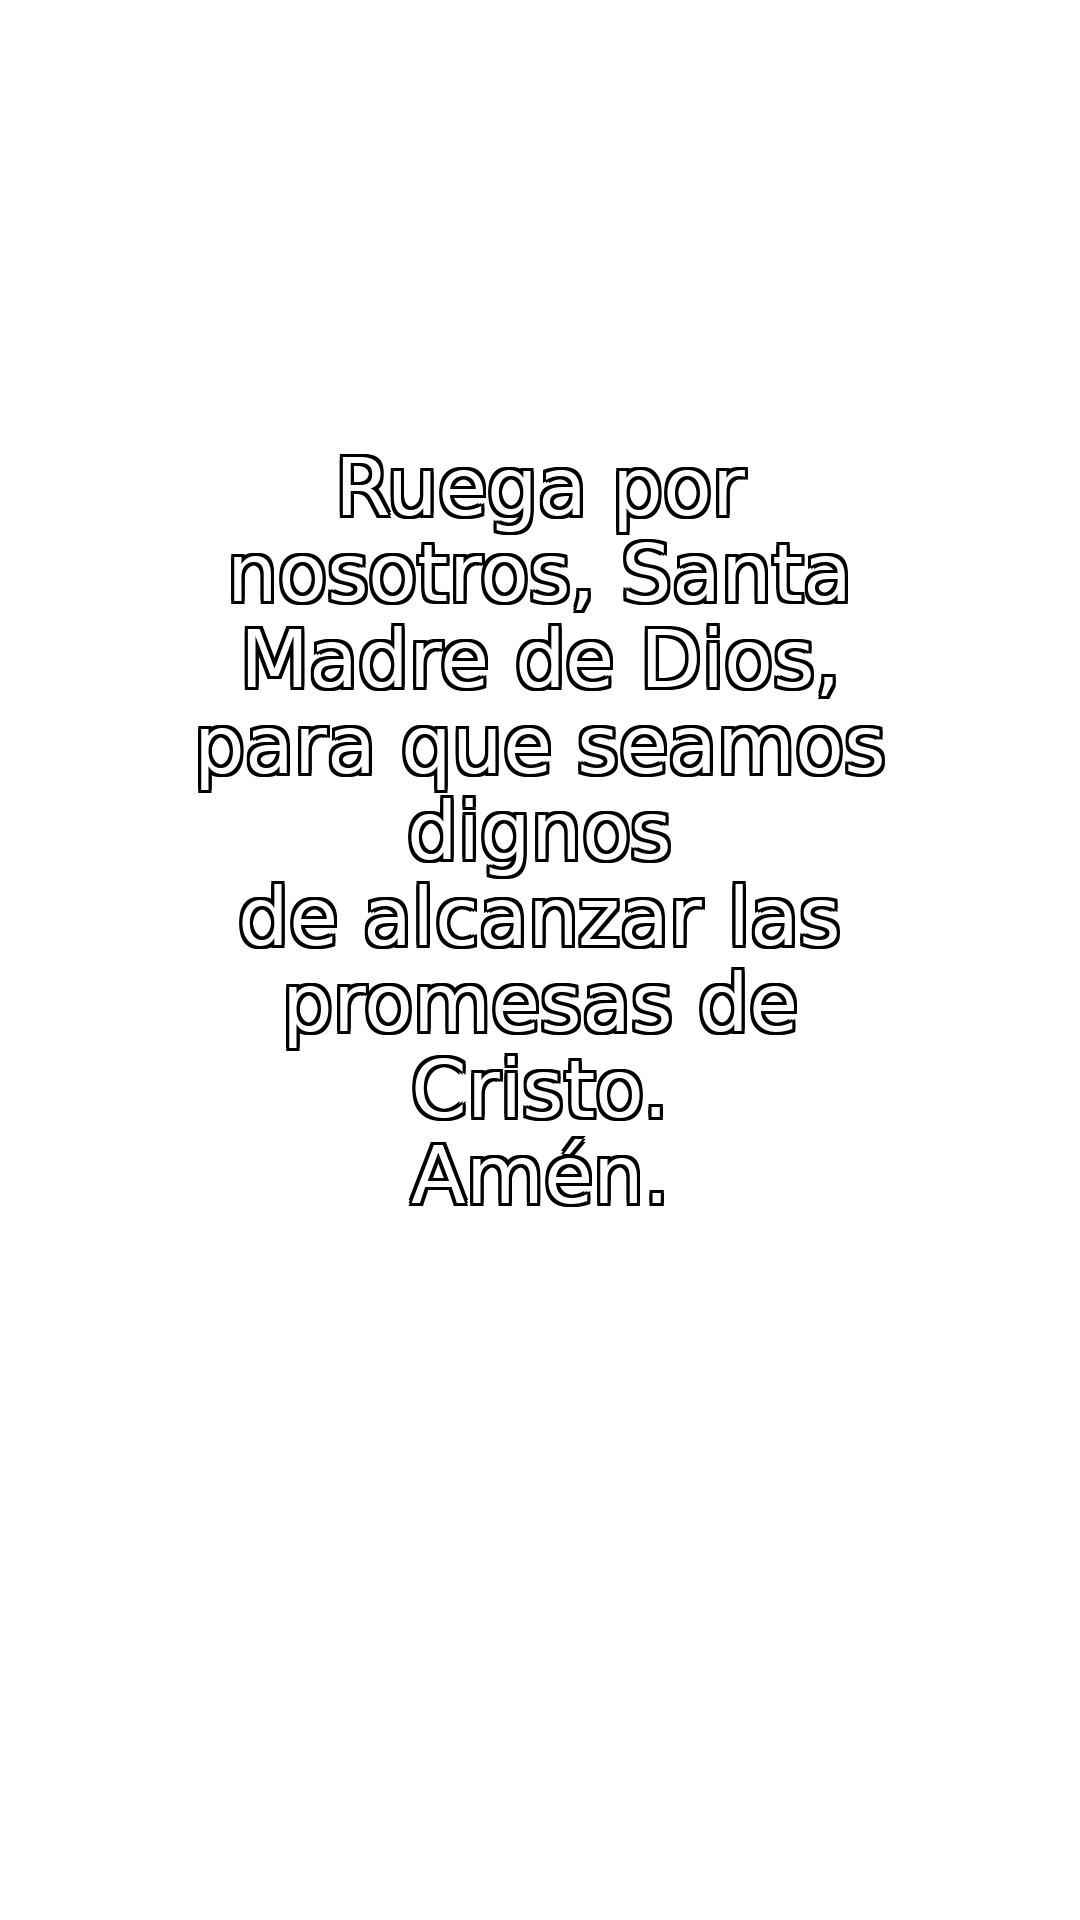
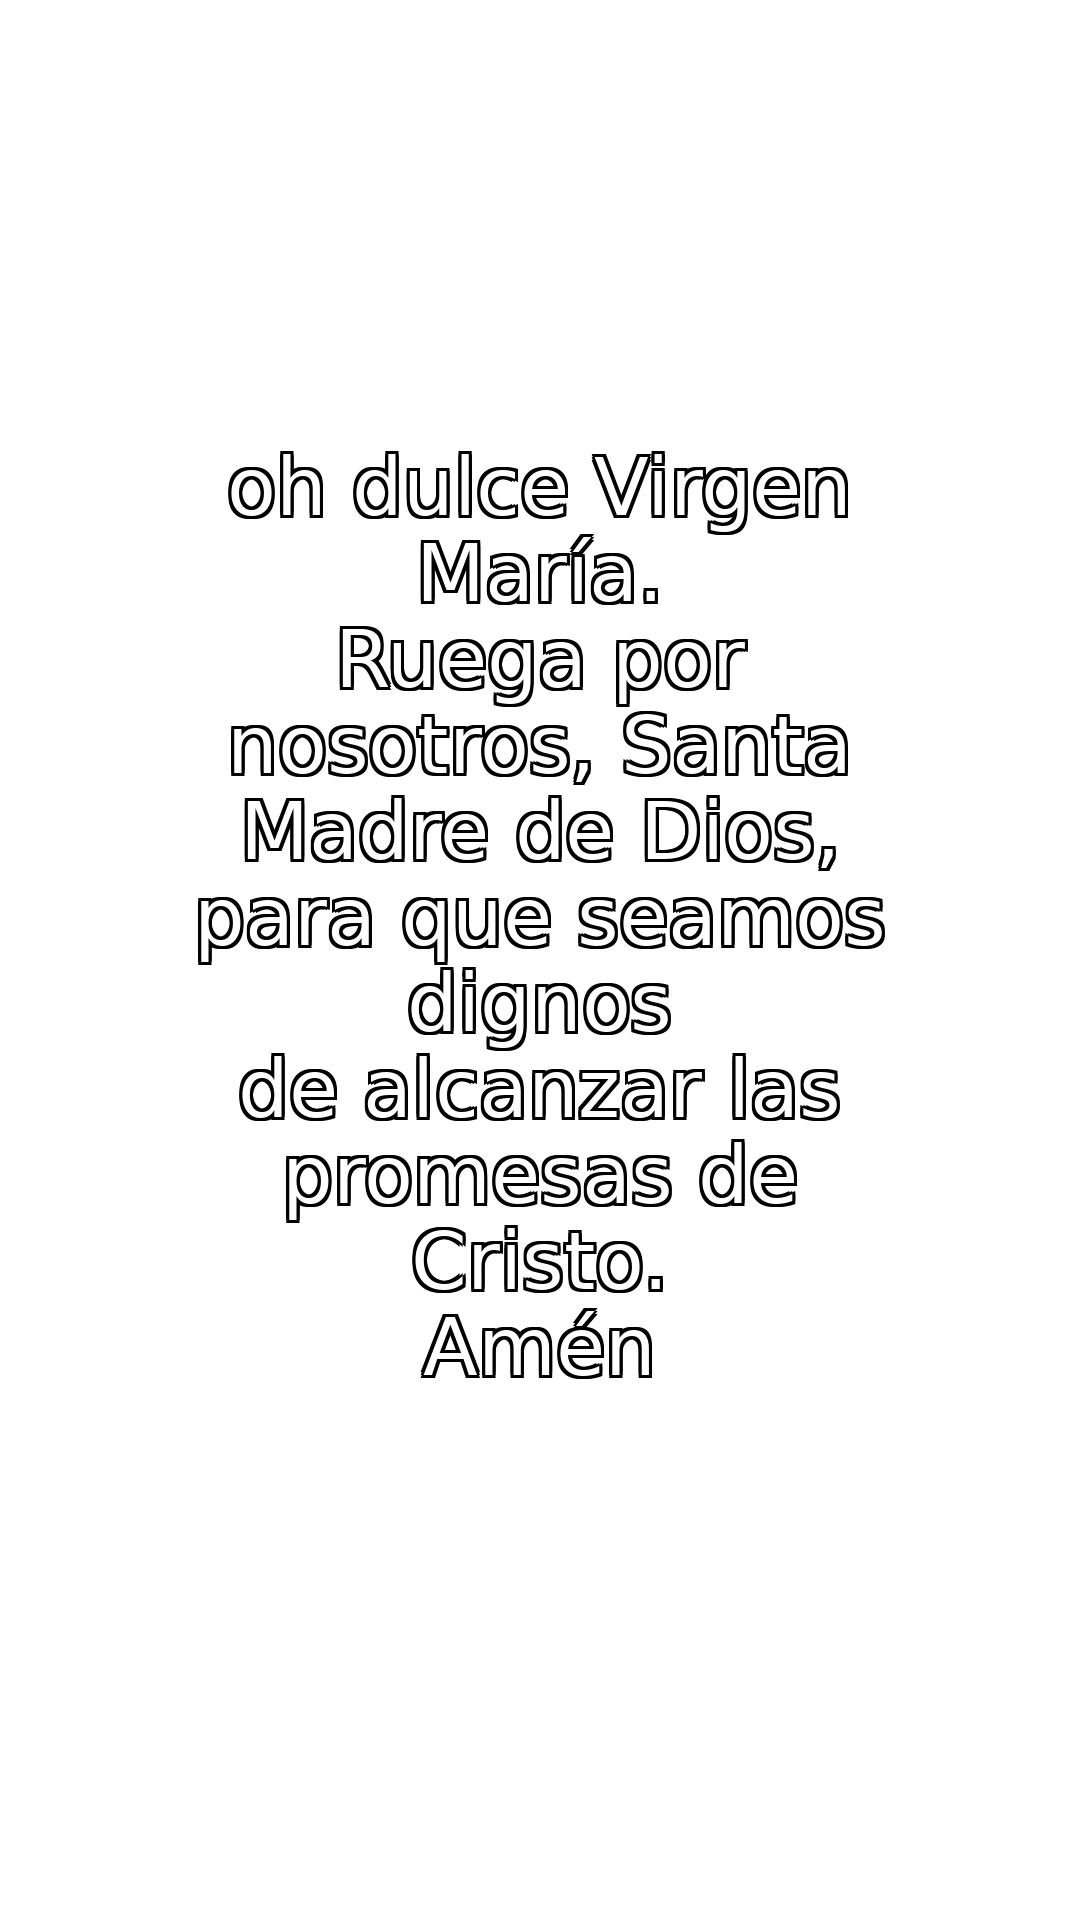
short videos con 1, 2 y 3 bloques funcionando correctamente con CTA y musica

Changed region(s): [[0.1833, 0.2188, 0.825, 0.7188]]

diff --git a/generator/v2/content/segmentation.py b/generator/v2/content/segmentation.py
@@ -12,7 +12,26 @@ def dividir_en_bloques_por_lineas(
     max_width_px: int,
     max_lineas: int = 8,
 ) -> list[str]:
+    """
+    Divide el texto en bloques visuales.
+    Regla de oro: ningún bloque puede exceder max_lineas visibles.
+    """
 
+    # -------------------------------------------------
+    # 1) Normalización previa (ÚNICO lugar donde se trata "Amén")
+    # -------------------------------------------------
+    lineas = [l.strip() for l in texto.splitlines() if l.strip()]
+
+    if len(lineas) >= 2 and lineas[-1].lower().rstrip(".") in ("amen", "amén"):
+        # "Amén" SIEMPRE se une a la línea anterior
+        lineas[-2] = lineas[-2].rstrip(".") + ".\nAmén"
+        lineas.pop()
+
+    texto = "\n".join(lineas)
+
+    # -------------------------------------------------
+    # 2) Preparar medición real de texto
+    # -------------------------------------------------
     img = Image.new("RGB", (10, 10))
     draw = ImageDraw.Draw(img)
     font = ImageFont.truetype(font_path, font_size)
@@ -26,29 +45,65 @@ def dividir_en_bloques_por_lineas(
 
     bloques: list[str] = []
 
+    # -------------------------------------------------
+    # 3) Segmentación visual + semántica
+    # -------------------------------------------------
     i = 0
     while i < len(wrapped_lines):
         ideal = i + max_lineas
 
+        # Caso final: lo que queda
         if ideal >= len(wrapped_lines):
-            bloques.append("\n".join(wrapped_lines[i:]))
+            restante = wrapped_lines[i:]
+
+            # Forzar chunks de max_lineas (nunca overflow visual)
+            while len(restante) > max_lineas:
+                bloques.append("\n".join(restante[:max_lineas]))
+                restante = restante[max_lineas:]
+
+            if restante:
+                bloques.append("\n".join(restante))
+
             break
 
+        # Intentar corte semántico cercano
         corte = _buscar_punto_corte(
             wrapped_lines,
             ideal=ideal,
             tolerancia=2,
         )
 
+        # Seguridad: nunca permitir overflow visual
+        if corte - i > max_lineas:
+            corte = ideal
+
         bloques.append("\n".join(wrapped_lines[i:corte]))
         i = corte
 
-    # regla "Amén"
+        # -------------------------------------------------
+        # Regla editorial: balancear último bloque si es muy corto
+        # -------------------------------------------------
+        MIN_LINEAS_ULTIMO = 5
+
     if len(bloques) >= 2:
-        ult = bloques[-1].strip().lower().rstrip(".")
-        if ult in ("amen", "amén"):
-            bloques[-2] += "\nAmén"
-            bloques.pop()
+        ultimo = bloques[-1]
+        lineas_ultimo = [l for l in ultimo.splitlines() if l.strip()]
+
+        if len(lineas_ultimo) < MIN_LINEAS_ULTIMO:
+            anterior = bloques[-2]
+            lineas_anterior = [l for l in anterior.splitlines() if l.strip()]
+
+            # mover líneas desde el final del bloque anterior
+            while (
+                len(lineas_ultimo) < MIN_LINEAS_ULTIMO
+                and len(lineas_anterior) > MIN_LINEAS_ULTIMO
+            ):
+                linea_movida = lineas_anterior.pop()
+                lineas_ultimo.insert(0, linea_movida)
+
+            bloques[-2] = "\n".join(lineas_anterior)
+            bloques[-1] = "\n".join(lineas_ultimo)
+
 
     return bloques
 
@@ -87,10 +142,12 @@ def _buscar_punto_corte(
     return ideal
 
 
-
-
 def calcular_duracion_bloque(texto: str) -> int:
+    """
+    Duración sugerida por cantidad de líneas visibles.
+    """
     n = len([l for l in texto.splitlines() if l.strip()])
+
     if n <= 7:
         return 20
     elif n <= 12:
